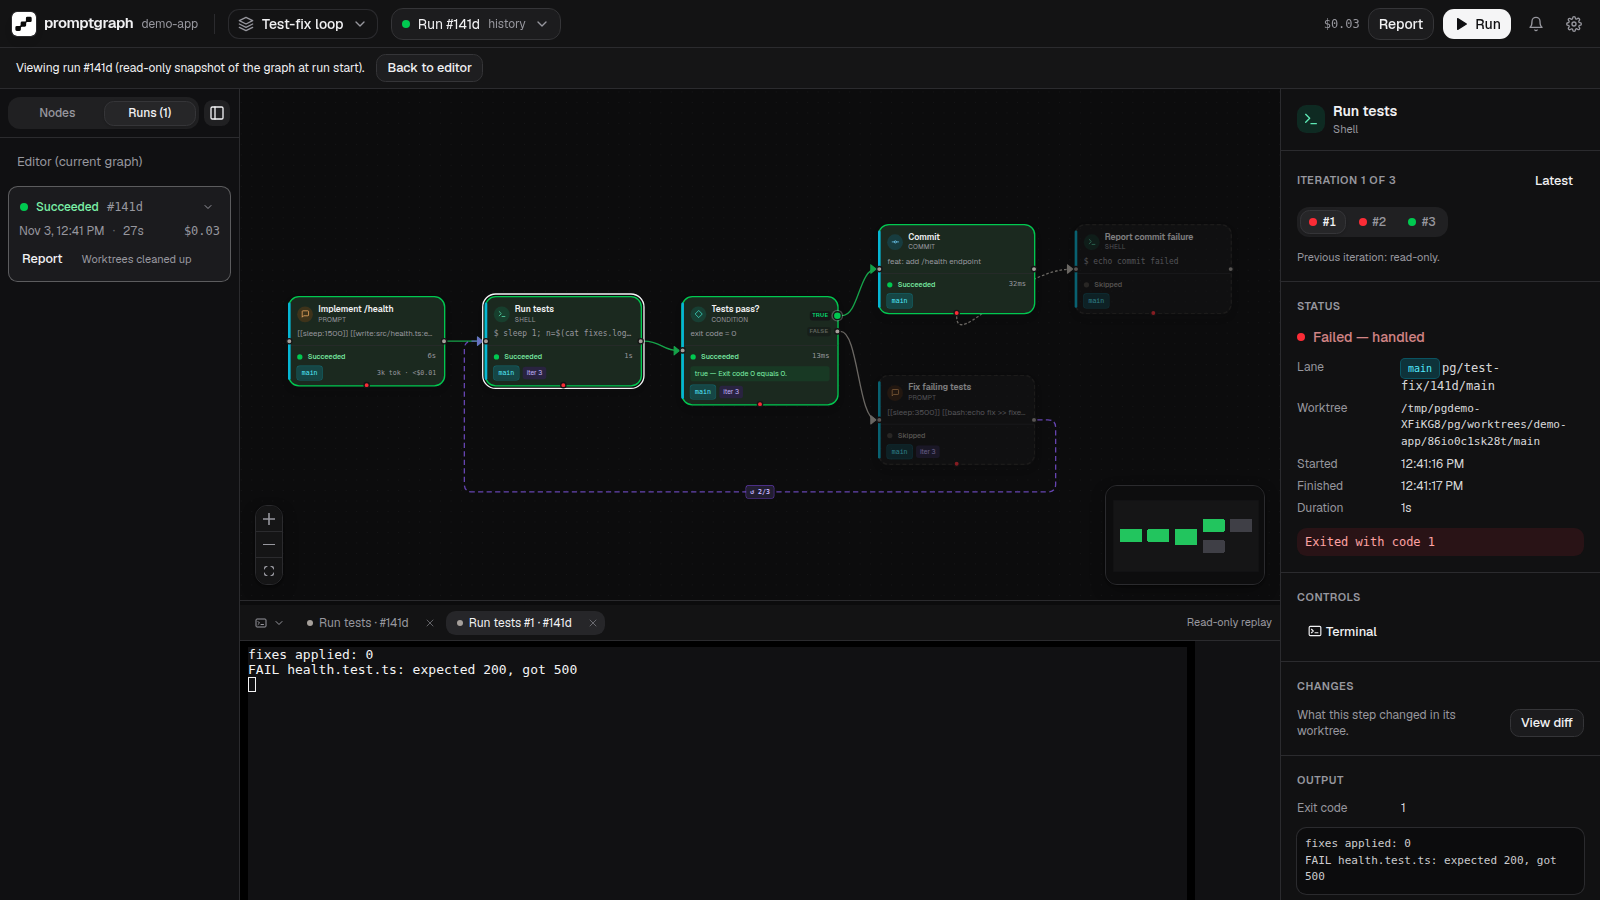
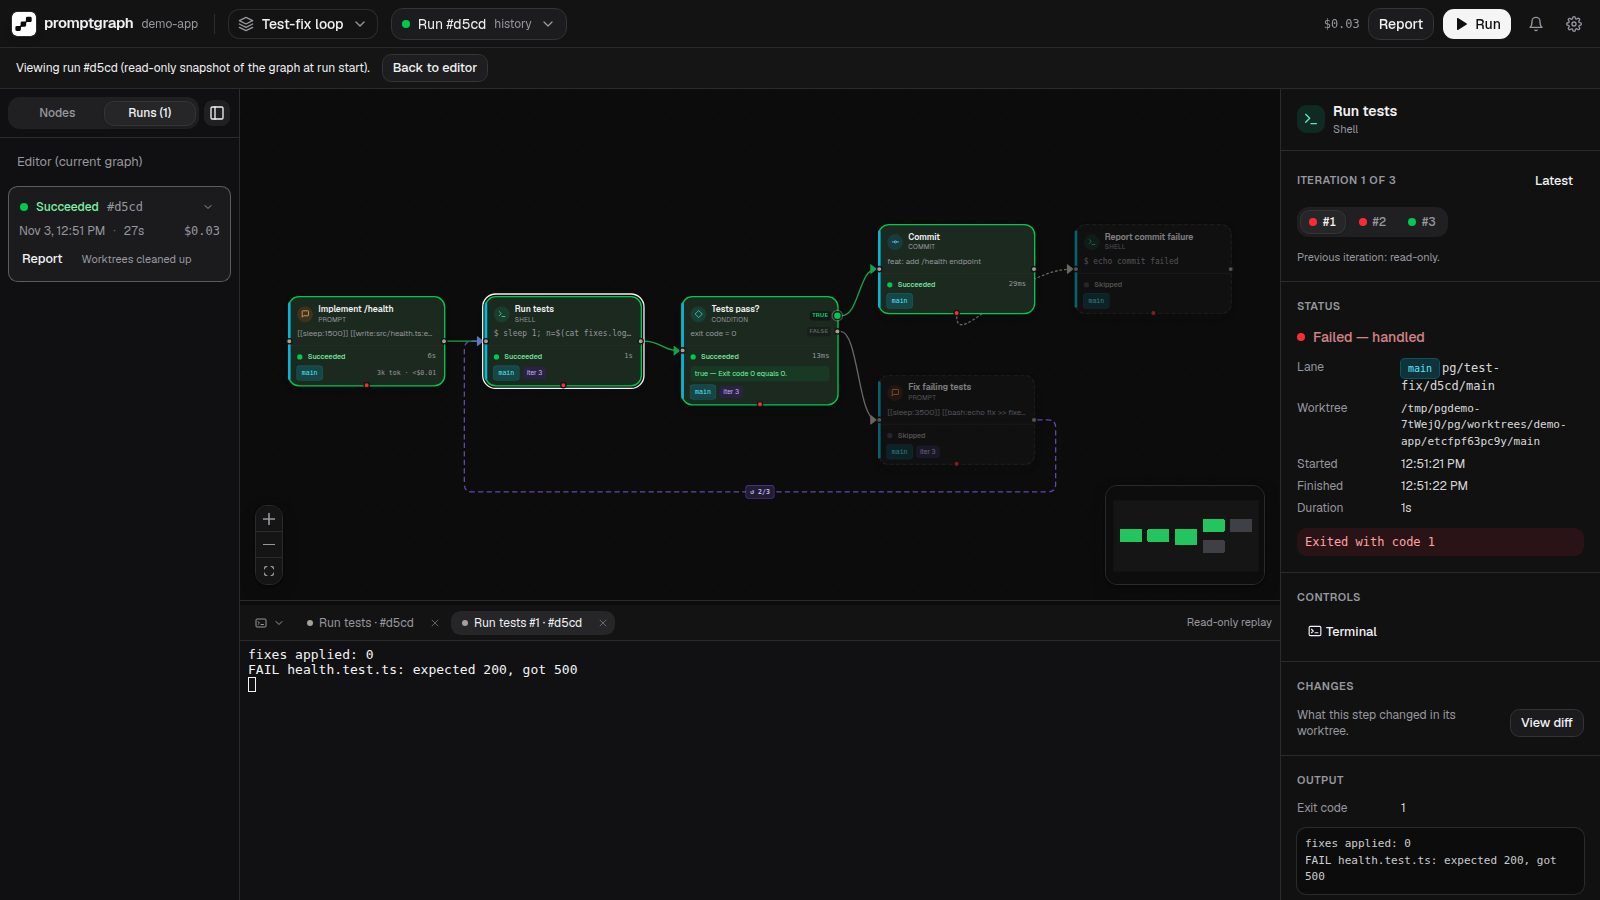
fix(web): remove the black gutters around the terminal
xterm.css paints its viewport black, and the viewport spans the padding
the canvas leaves empty, so a read-only replay showed black strips on
both sides of the terminal. Make the viewport transparent so the
container's terminal background shows through, and keep that colour in
one constant. Regenerate the screenshots that show a terminal.

diff --git a/packages/web/src/components/terminal/TerminalView.tsx b/packages/web/src/components/terminal/TerminalView.tsx
@@ -7,9 +7,11 @@ import { keepAlternateScreen } from "../../lib/terminal-replay";
 
 export type PtyState = { phase: "connecting" } | { phase: "live" } | { phase: "replay"; exitCode?: number | null } | { phase: "error"; message: string };
 
+/** Claude Code's TUI is designed for a dark terminal: keep it dark in both themes, in the near-black of the logo. */
+const TERMINAL_BG = "#111113";
+
 const THEME = {
-  // Claude Code's TUI is designed for a dark terminal: keep it dark in both themes, in the near-black of the logo.
-  background: "#111113",
+  background: TERMINAL_BG,
   foreground: "#f4f4f5",
   cursor: "#f4f4f5",
   selectionBackground: "#3f3f46",
@@ -120,7 +122,7 @@ export function TerminalView({ ptyId, visible, onState }: { ptyId: string; visib
   }, [visible, term]);
 
   return (
-    <div className={`h-full w-full bg-[#111113] ${fixedSize ? "overflow-auto" : ""} ${visible ? "" : "hidden"}`}>
+    <div className={`h-full w-full ${fixedSize ? "overflow-auto" : ""} ${visible ? "" : "hidden"}`} style={{ backgroundColor: TERMINAL_BG }}>
       <div ref={containerRef} className={`pg-terminal ${fixedSize ? "pg-terminal-fixed h-max w-max" : "h-full w-full"}`} />
     </div>
   );

diff --git a/packages/web/src/index.css b/packages/web/src/index.css
@@ -141,6 +141,14 @@ body {
   padding: 6px 8px;
 }
 
+/*
+ * xterm.css paints the viewport black, and it spans the padding the canvas leaves empty: let the container's
+ * terminal background (TerminalView) show through instead of black gutters on both sides.
+ */
+.pg-terminal .xterm .xterm-viewport {
+  background-color: transparent;
+}
+
 /* Replays keep the PTY's cols/rows: the xterm sizes to its content and the tab scrolls. */
 .pg-terminal-fixed .xterm {
   height: auto;
